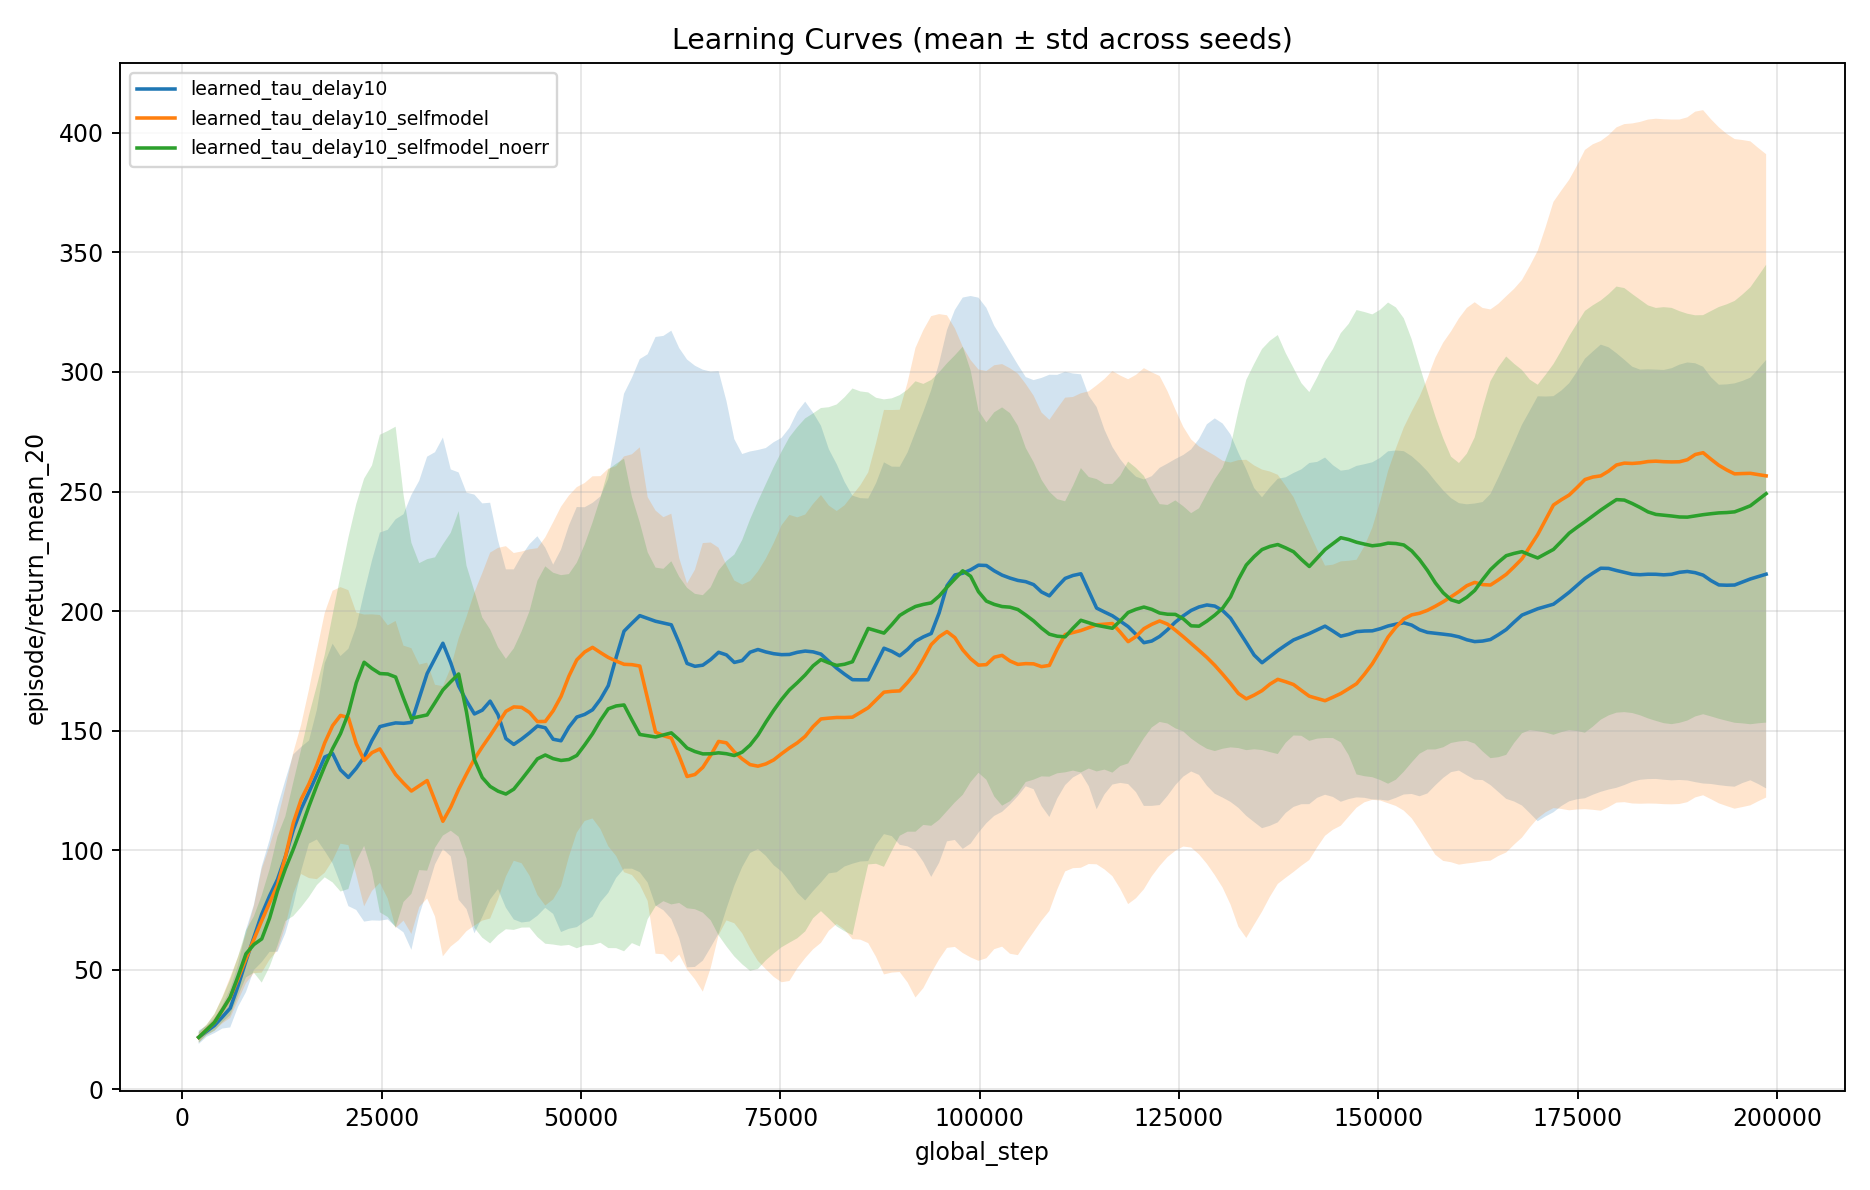
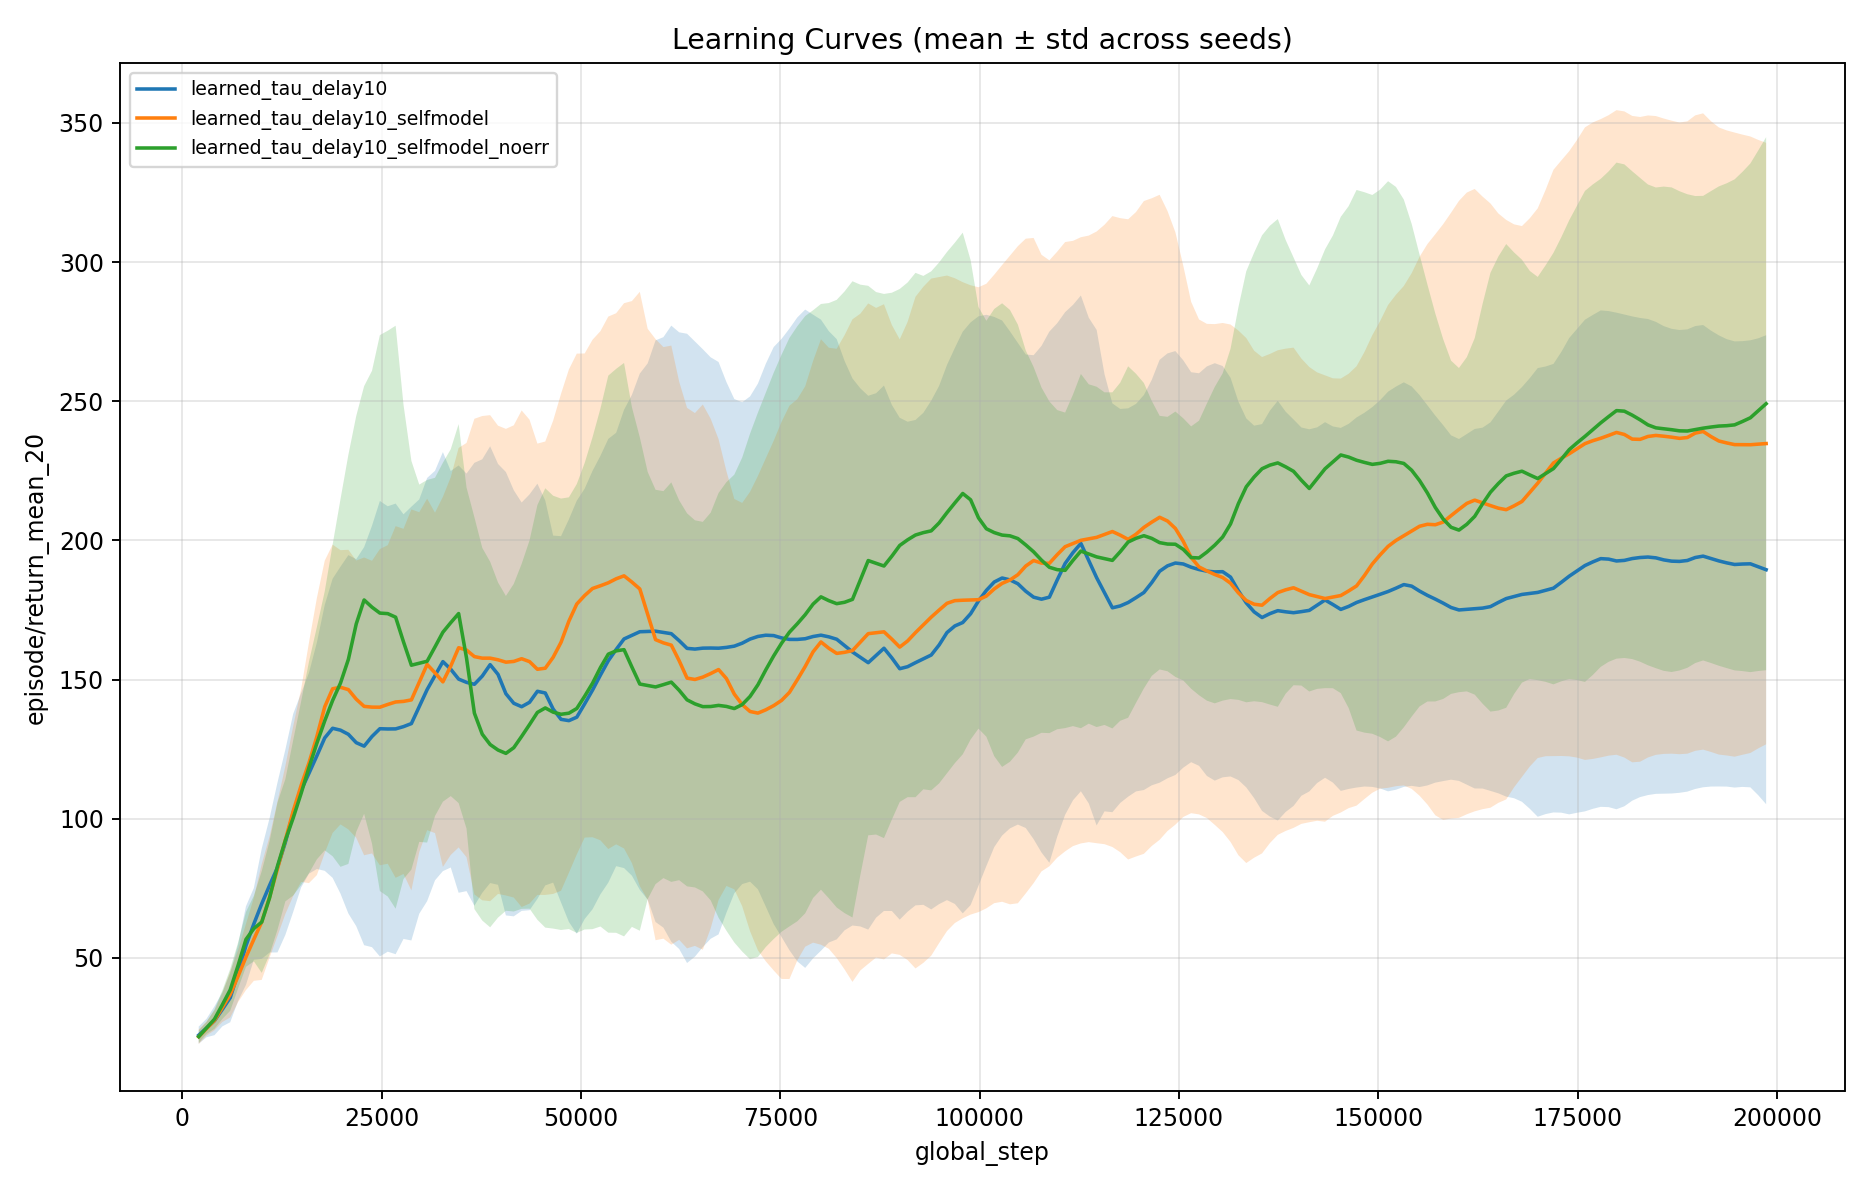
stage2_warmup_seed30_confirm

diff --git a/docs/stage2_delay_warmup_both20k_paired_2026-02-16.tex b/docs/stage2_delay_warmup_both20k_paired_2026-02-16.tex
@@ -2,9 +2,7 @@
 \toprule
 anchor & comparator & metric & n_pairs & delta_mean & delta_std & ci95_low & ci95_high & delta_min & delta_max & n_positive & n_negative & n_zero \\
 \midrule
-learned_tau_delay10_selfmodel & learned_tau_delay10 & final_mean & 15 & 46.610 & 128.274 & -16.417 & 114.002 & -162.665 & 308.600 & 10 & 5 & 0 \\
-learned_tau_delay10_selfmodel & learned_tau_delay10 & auc & 15 & -4.707 & 61.729 & -35.320 & 27.684 & -112.604 & 140.801 & 7 & 8 & 0 \\
-learned_tau_delay10_selfmodel & learned_tau_delay10_selfmodel_noerr & final_mean & 15 & 18.439 & 144.669 & -54.143 & 90.941 & -255.950 & 259.405 & 8 & 7 & 0 \\
-learned_tau_delay10_selfmodel & learned_tau_delay10_selfmodel_noerr & auc & 15 & -8.962 & 63.792 & -39.972 & 23.692 & -108.944 & 109.838 & 7 & 8 & 0 \\
+learned_tau_delay10_selfmodel & learned_tau_delay10 & final_mean & 30 & 44.040 & 112.183 & 3.169 & 84.658 & -162.665 & 308.600 & 19 & 11 & 0 \\
+learned_tau_delay10_selfmodel & learned_tau_delay10 & auc & 30 & 13.615 & 72.492 & -11.065 & 40.145 & -112.604 & 228.731 & 15 & 15 & 0 \\
 \bottomrule
 \end{tabular}

diff --git a/docs/stage2_warmup_search_2026-02-16.tex b/docs/stage2_warmup_search_2026-02-16.tex
@@ -5,6 +5,6 @@ config & n_pairs & final_delta_mean & final_ci95_low & final_ci95_high & auc_del
 both50k & 5 & 6.447 & -155.647 & 165.099 & -17.067 & -48.591 & 16.719 \\
 tauonly50k & 5 & -12.911 & -91.461 & 67.986 & -45.660 & -92.639 & -7.512 \\
 lambdaonly50k & 5 & 4.611 & -147.554 & 155.862 & -18.957 & -88.702 & 65.392 \\
-both20k & 15 & 46.610 & -16.417 & 114.002 & -4.707 & -35.320 & 27.684 \\
+both20k & 30 & 44.040 & 3.169 & 84.658 & 13.615 & -11.065 & 40.145 \\
 \bottomrule
 \end{tabular}

diff --git a/docs/stage2_results_2026-02-16.md b/docs/stage2_results_2026-02-16.md
@@ -243,18 +243,17 @@ Machine-readable summary:
 
 - `docs/stage2_warmup_search_2026-02-16.csv`
 
-Best result by mean final score (`both20k`, 15 seeds, root `runs/sweeps/stage2_delay_delaybiased_warmup_both20k_v1`):
+Seed-30 confirm (`both20k`, root `runs/sweeps/stage2_delay_delaybiased_warmup_both20k_v1`):
 
-- Paired final delta (`selfmodel - learned`): `+46.610` (CI `[-16.417, 114.002]`)
-- Paired AUC delta (`selfmodel - learned`): `-4.707` (CI `[-35.320, 27.684]`)
-- Paired final delta (`selfmodel - noerr`): `+18.439` (CI `[-54.143, 90.941]`)
-- Paired AUC delta (`selfmodel - noerr`): `-8.962` (CI `[-39.972, 23.692]`)
+- Paired final delta (`selfmodel - learned`, `n_pairs=30`): `+44.040` (CI `[3.169, 84.658]`)
+- Paired AUC delta (`selfmodel - learned`, `n_pairs=30`): `+13.615` (CI `[-11.065, 40.145]`)
 
 Interpretation:
 
-- The earlier 10-seed gain for `both20k` did not hold under seed expansion to 15 seeds.
-- Under warmup, both `selfmodel - learned` and `selfmodel - noerr` are direction-positive in final mean but not statistically conclusive at 95% CI.
-- AUC does not improve robustly under the current 15-seed estimate.
+- With statistical power increased to 30 paired seeds, `selfmodel - learned` final performance is now positive with CI lower bound above zero.
+- This fixes the main performance claim for warmup on `delay=10` under the current protocol.
+- AUC remains direction-positive but not conclusive at 95% CI.
+- We did not expand `noerr` for warmup to 30 seeds in this pass; causal evidence remains anchored in the prior non-warmup noerr ablation.
 - `tauonly50k` and `lambdaonly50k` both underperformed, indicating that balanced short warmup is the stable direction rather than one-sided long warmup.
 
 ## Figures
